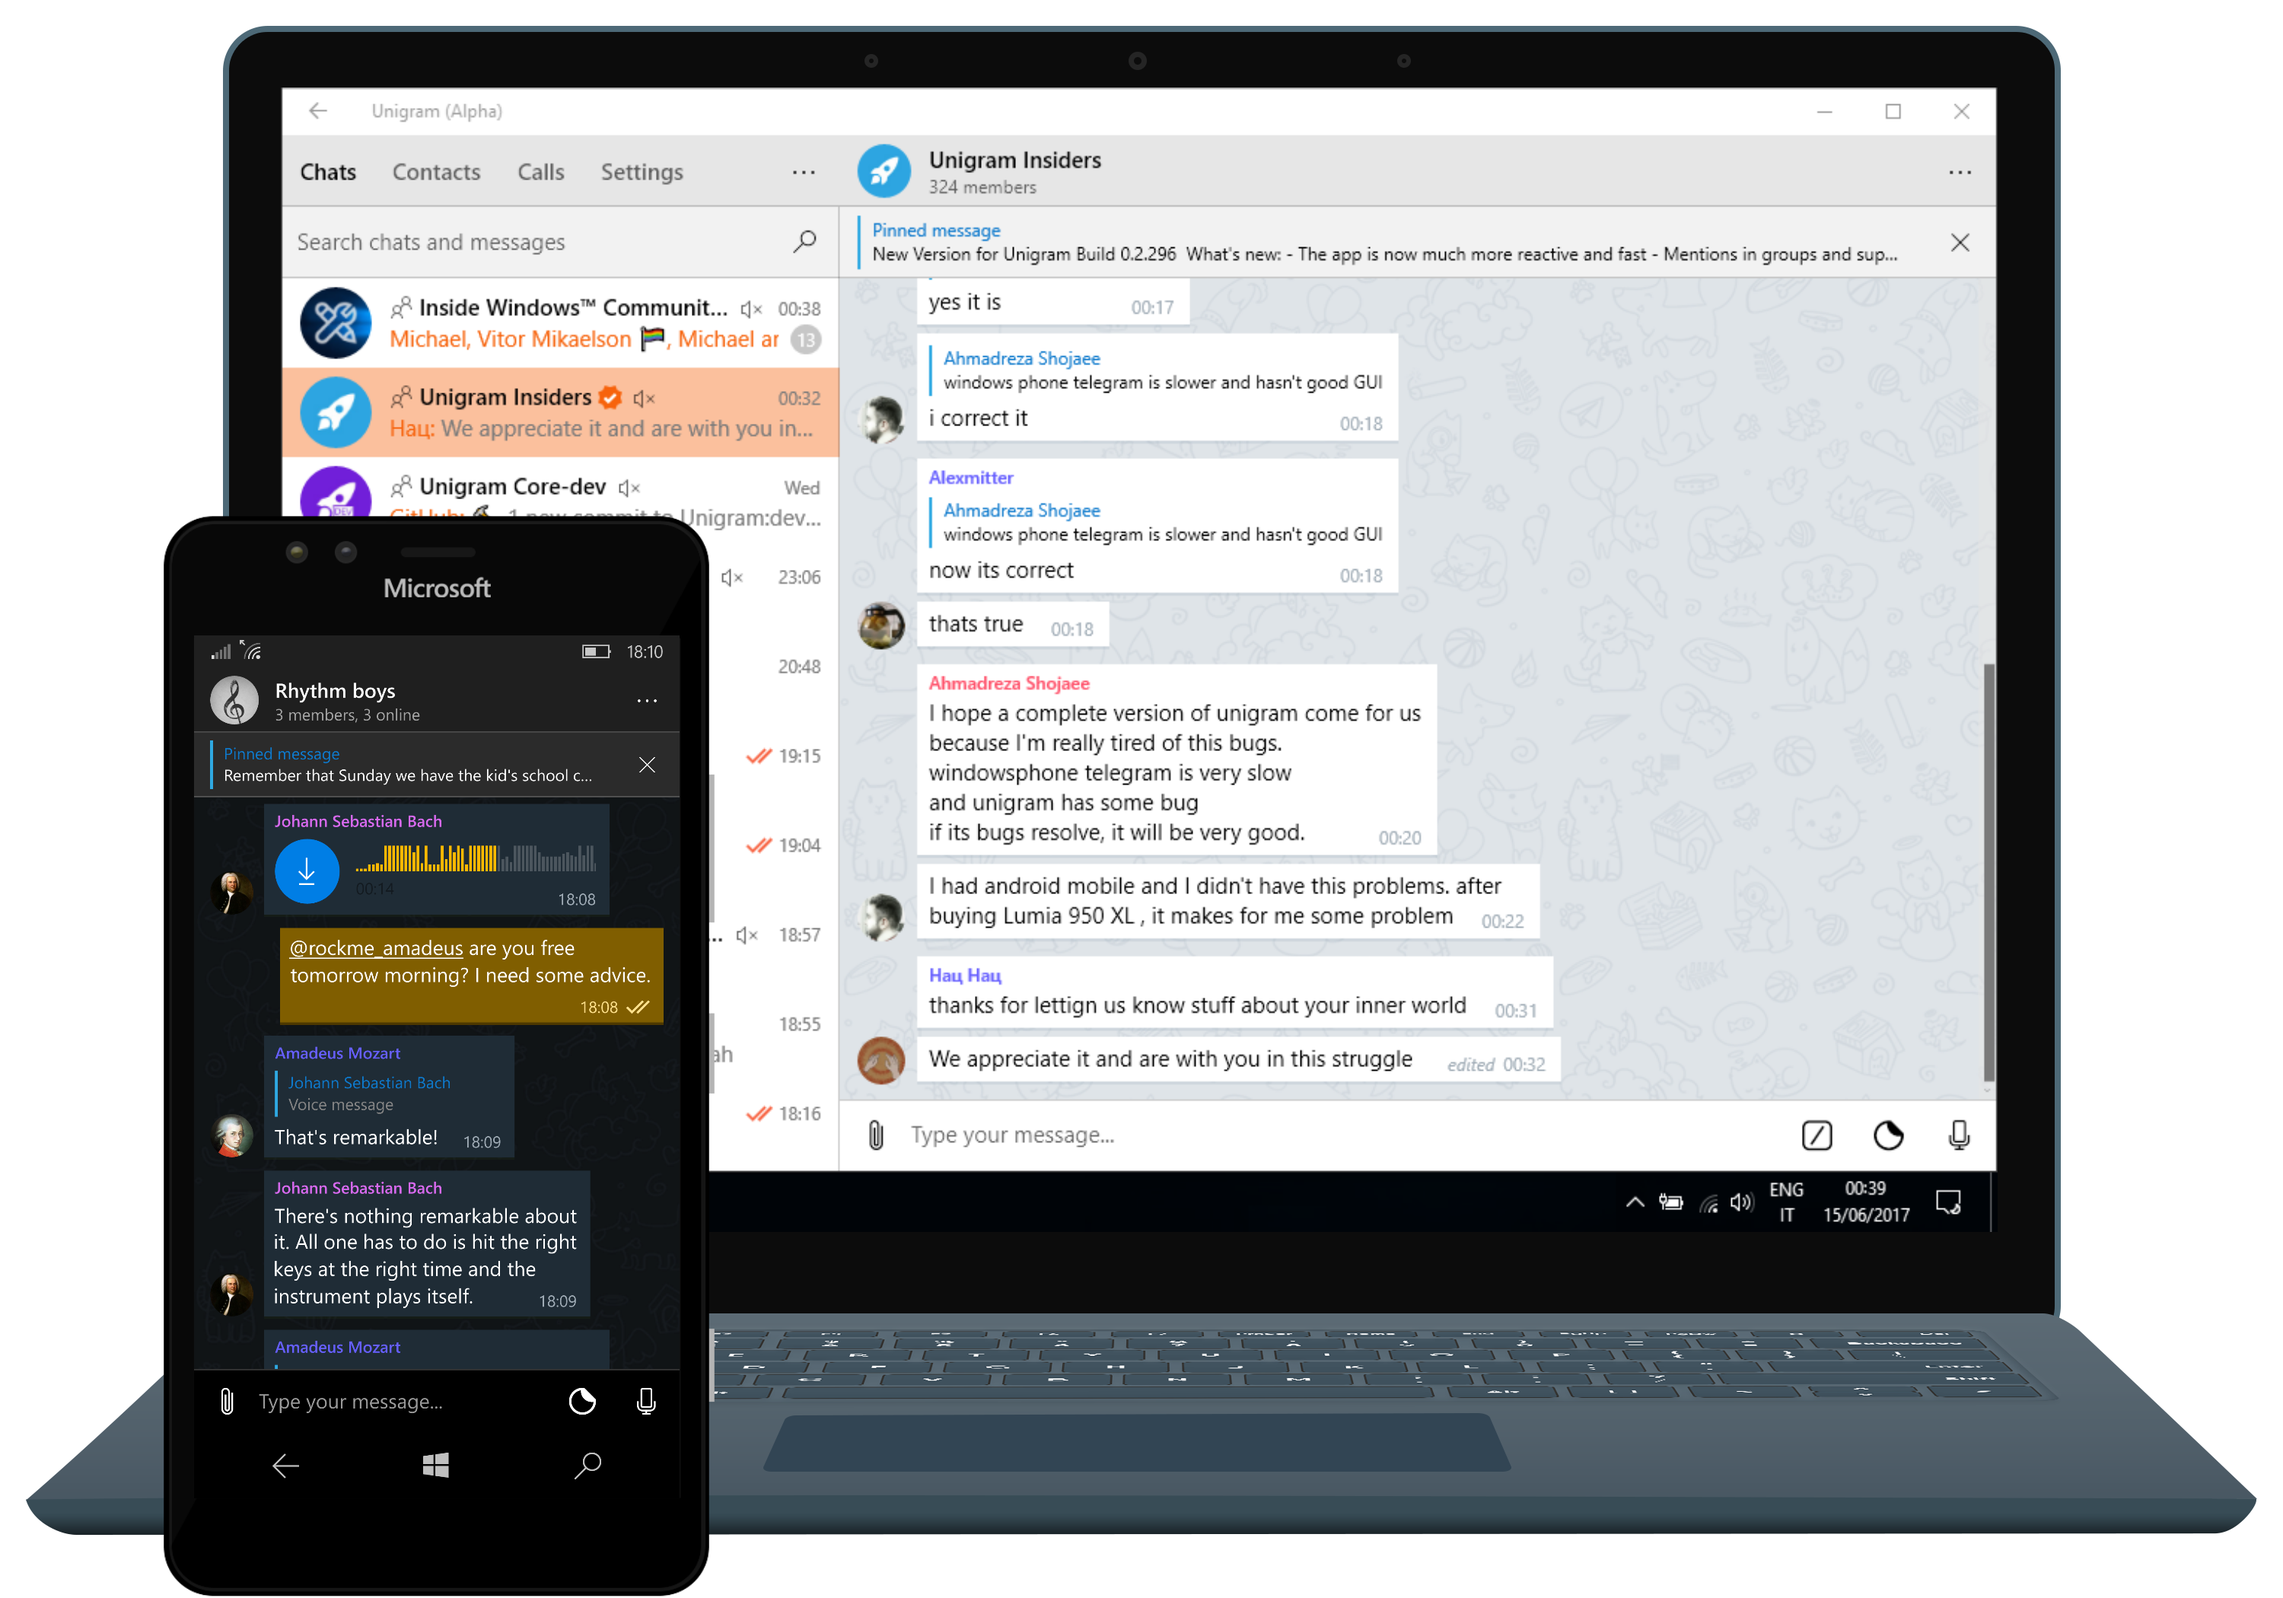
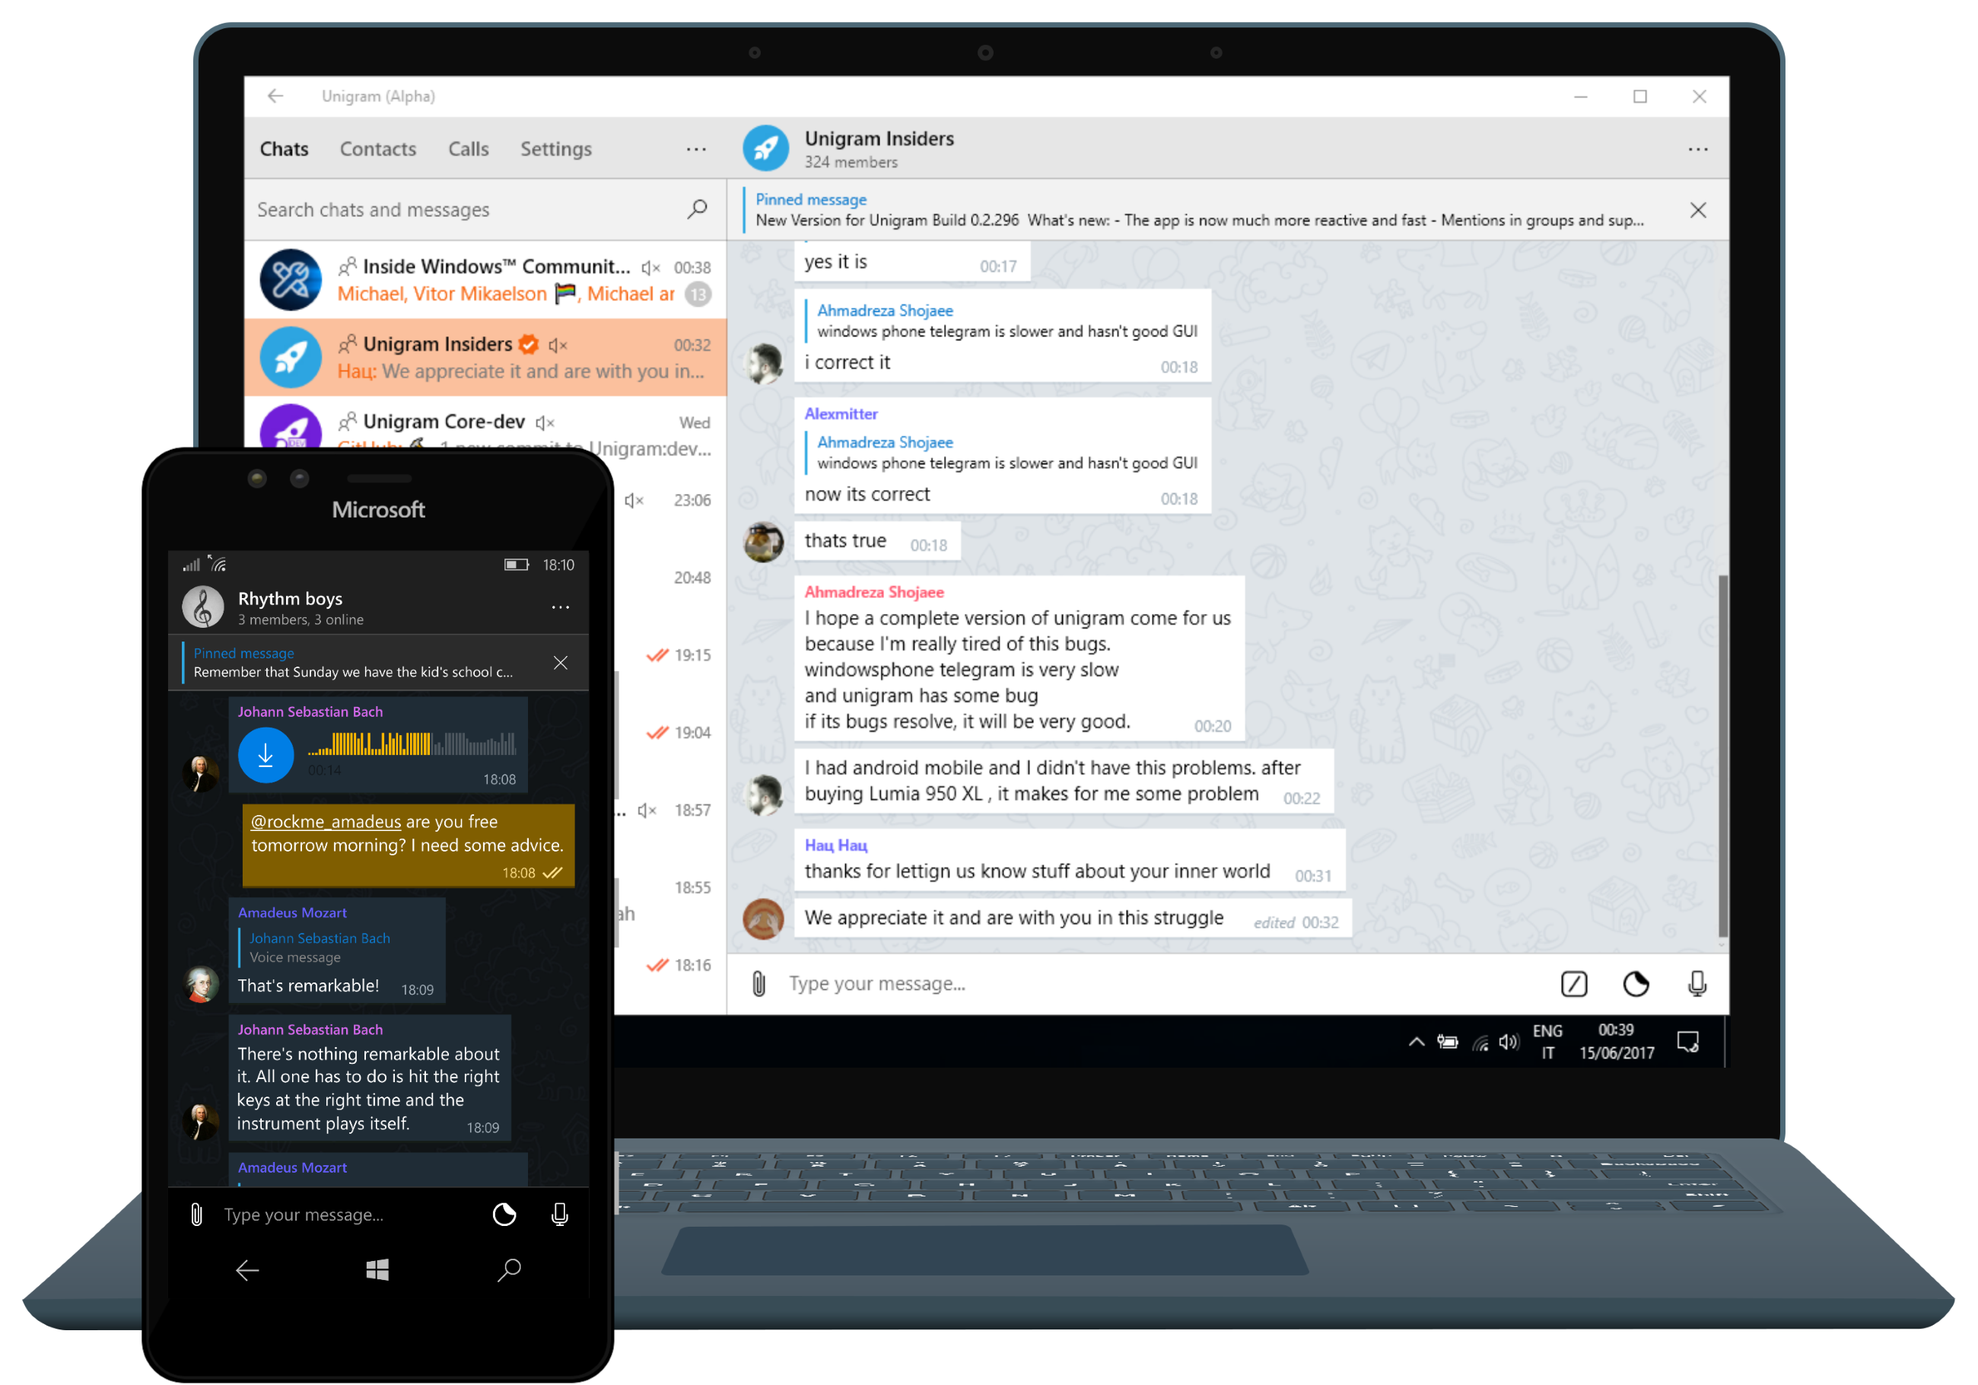
- removed unused stylesheet in index.html - compressed Hero asset

Changed region(s): [[0.1246, 0.5846, 0.2181, 0.6154]]

diff --git a/public/index.html b/public/index.html
@@ -3,7 +3,7 @@
   <head>
     <title>Unigram</title>
     <meta charset="utf-8">
-    <meta name="viewport" content="width=device-width, initial-scale=1, shrink-to-fit=no">
+    <meta name="viewport" content="width=device-width, initial-scale=1">
     <meta name="description" content="Unigram for Windows 10">
     <meta name="keywords" content="Unigram, Windows, UWP, Universal, Mobile, Xbox, Telegram, App">
     <meta name="author" content="Matei Bogdan Radu">
@@ -11,7 +11,6 @@
     <!-- Styles. -->
     <link href="https://maxcdn.bootstrapcdn.com/bootstrap/4.0.0-alpha.6/css/bootstrap.min.css" rel="stylesheet"
           integrity="sha384-rwoIResjU2yc3z8GV/NPeZWAv56rSmLldC3R/AZzGRnGxQQKnKkoFVhFQhNUwEyJ" crossorigin="anonymous">
-    <link href="%PUBLIC_URL%/css/devices.css" rel="stylesheet">
     <link href="%PUBLIC_URL%/css/mdl2-icons.min.css" rel="stylesheet">
     <link href="%PUBLIC_URL%/css/noscript.css" rel="stylesheet">
 
